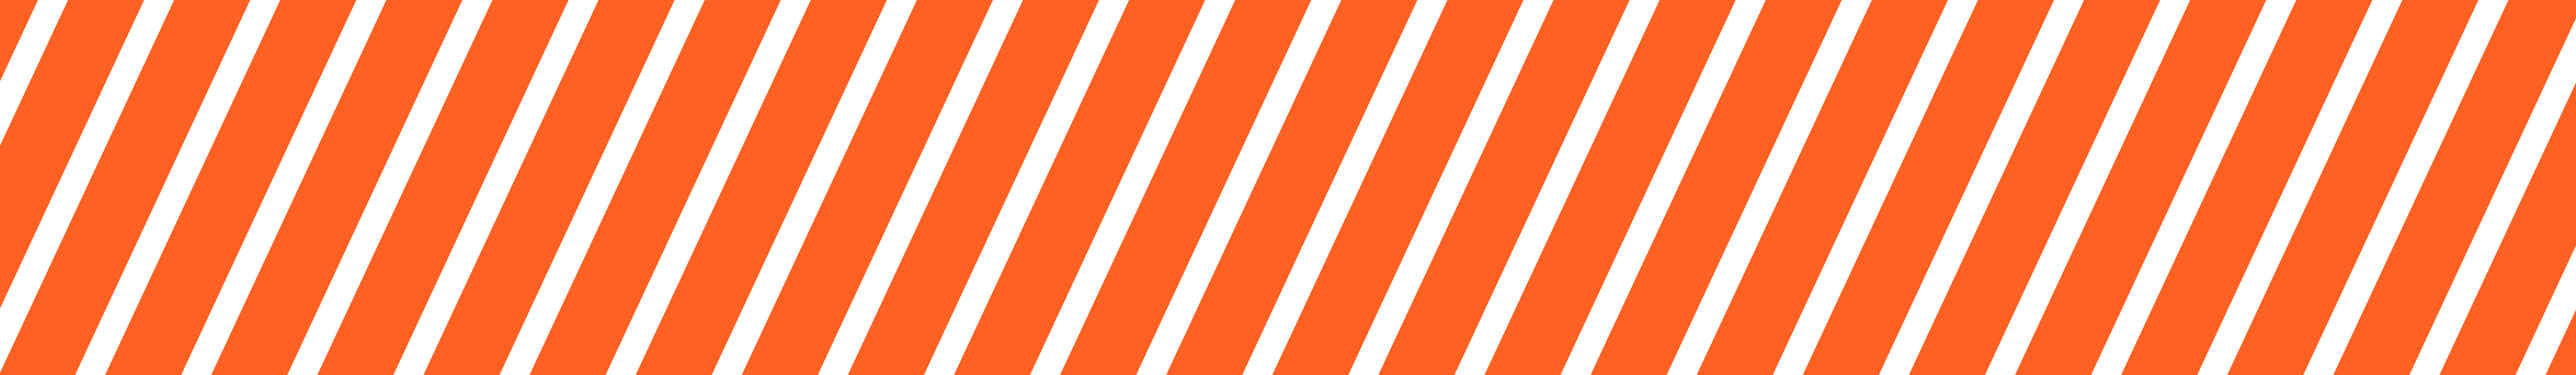
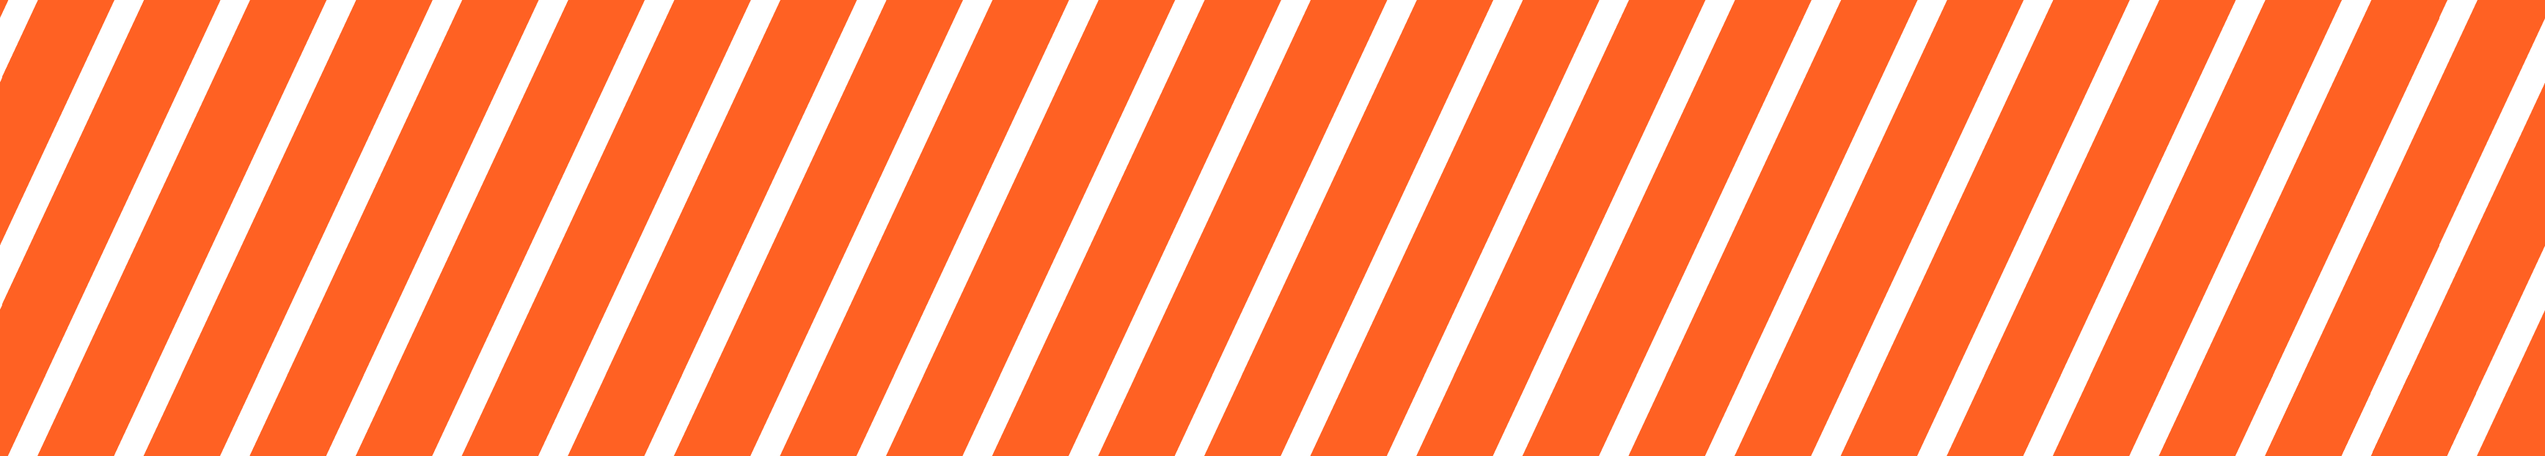
add welcomeBox styling

diff --git a/project/css/main.css b/project/css/main.css
@@ -39,8 +39,6 @@ img {
 nav {
     display: flex;
     width: 100%;
-    /* height: 5.5em; */
-    /* transform: scale(.8); */
     align-items: center;
     border-bottom: 3.8px solid var(--expert);
     background-color: var(--background);
@@ -59,7 +57,7 @@ nav #nav-logo {
     display: flex;
     justify-content: center;
     align-items: center;
-    padding: 1.5em;
+    padding: 0 1.5em;
     width: fit-content;
 }
 
@@ -85,7 +83,7 @@ nav #nav-btns>div {
 
 nav #nav-btns>div:hover {
     background-color: var(--expert);
-    color: white;
+    color: var(--white);
 }
 
 nav #nav-btns img {
@@ -97,7 +95,6 @@ nav #nav-account {
     display: flex;
     justify-content: flex-end;
     align-items: center;
-    /* */
     text-align: right;
     gap: 1.5em;
     max-lines: 1;
@@ -110,16 +107,16 @@ nav #nav-account img {
 
 nav #nav-account p {
     display: -webkit-box;
-    /* max-width: 400px; */
     -webkit-box-orient: vertical;
     -webkit-line-clamp: 1;
     line-clamp: 1;
     overflow: hidden;
-    text-overflow: clip;
 }
 
 nav #nav-items {
-    width: 12em;
+    min-width: 7em;
+    width: 7em;
+    max-width: 7em;
     padding: 2em;
     display: flex;
     justify-content: center;
@@ -155,13 +152,11 @@ nav #nav-items img {
     left: 0;
     transform-origin: top left;
     /* height: 14em; */
-    background-image: url(../img/ShadowMask2.png);
+    background-image: url(../img/ShadowMask.png);
     background-size: 80%;
-    color: white;
+    color: var(--white);
     z-index: 9;
 }
-
-#imageShadow {}
 
 #slideshowTextFlex {
     display: flex;
@@ -194,19 +189,18 @@ nav #nav-items img {
 
 #deviceNav {
     display: flex;
-    /* padding: 50px 150px; */
-    padding: 2.5em 6.5em;
     flex-direction: column;
+    justify-content: center;
     align-items: center;
     gap: 3em;
 }
 
 #btnDiv {
     display: flex;
-    padding: 1em;
+    padding: 3.5em 7.5em;
     justify-content: center;
-    /* align-items: flex-start; */
     gap: 3em;
+    /* align-items: flex-start; */
     /* align-self: stretch; */
 }
 
@@ -214,16 +208,32 @@ nav #nav-items img {
     display: flex;
     width: 100%;
     height: max-content;
-    background-color: #ff6123;
+    background-color: var(--expert);
     flex-direction: column;
     justify-content: center;
     align-items: flex-start;
 }
 
 #welcomeBox {
-    /* border: .02em solid black; */
-    padding: .2em;
+    position: relative;    
     width: 100%;
+}
+
+
+#welcomeBoxText {
+    padding: .2em;
+    background-color: var(--white);
+    border: .02em solid black;
+    width: 55%;
+    margin: 0 auto;
+}
+
+#welcomeBoxBackground {
+    background-image: url(../img/Shadow.png);
+    background-size: 75%;
+    position: absolute;
+    top: 0;
+    z-index: -1;
 }
 
 /* Dropdown Menu */

diff --git a/project/index.html b/project/index.html
@@ -62,23 +62,33 @@
         <div id="content">
             <div id="deviceNav">
                 <div id="welcomeBox">
-                    <h2>Welcome to ExpertShop</h2>
-                    <p>What would you like to buy?</p>
+                    <div id="welcomeBoxText">
+                        <div>
+                            <h2>Welcome to ExpertShop</h2>
+                        </div>
+                        <div>
+                            <p>What would you like to buy?</p>
+                        </div>
+                    </div>
+                
+                    <div id="welcomeBoxBackground">
+                        <img src="./img/transparentGoAround.png" alt="transparent Go Around">
+                    </div>
                 </div>
 
                 <div id="btnDiv">
                     <div>
-                        <img src="./img/ShadowMask2.png" alt="">
+                        <img src="./img/ShadowMask.png" alt="">
                         <p>dfsd</p>
                     </div>
 
                     <div>
-                        <img src="./img/ShadowMask2.png" alt="">
+                        <img src="./img/ShadowMask.png" alt="">
                         <p>dfsgkd</p>
                     </div>
 
                     <div>
-                        <img src="./img/ShadowMask2.png" alt="">
+                        <img src="./img/ShadowMask.png" alt="">
                         <p>dfsdz</p>
                     </div>
                 </div>
